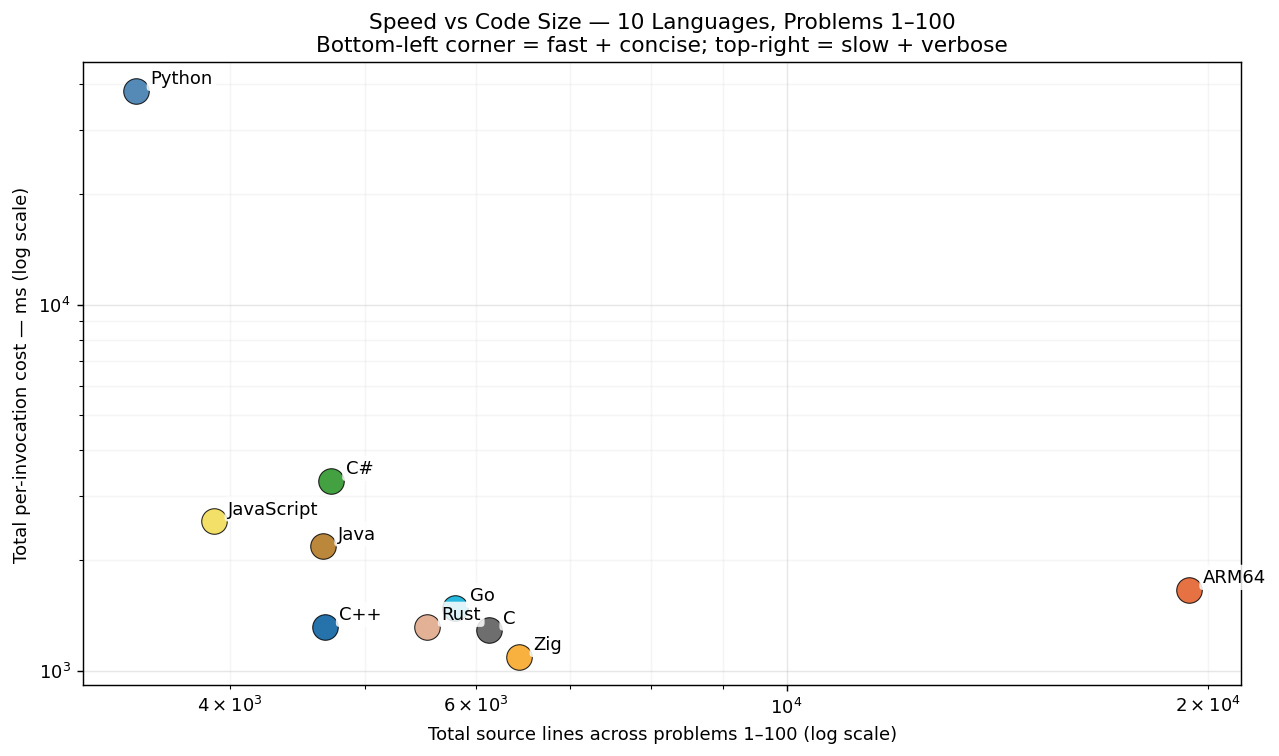
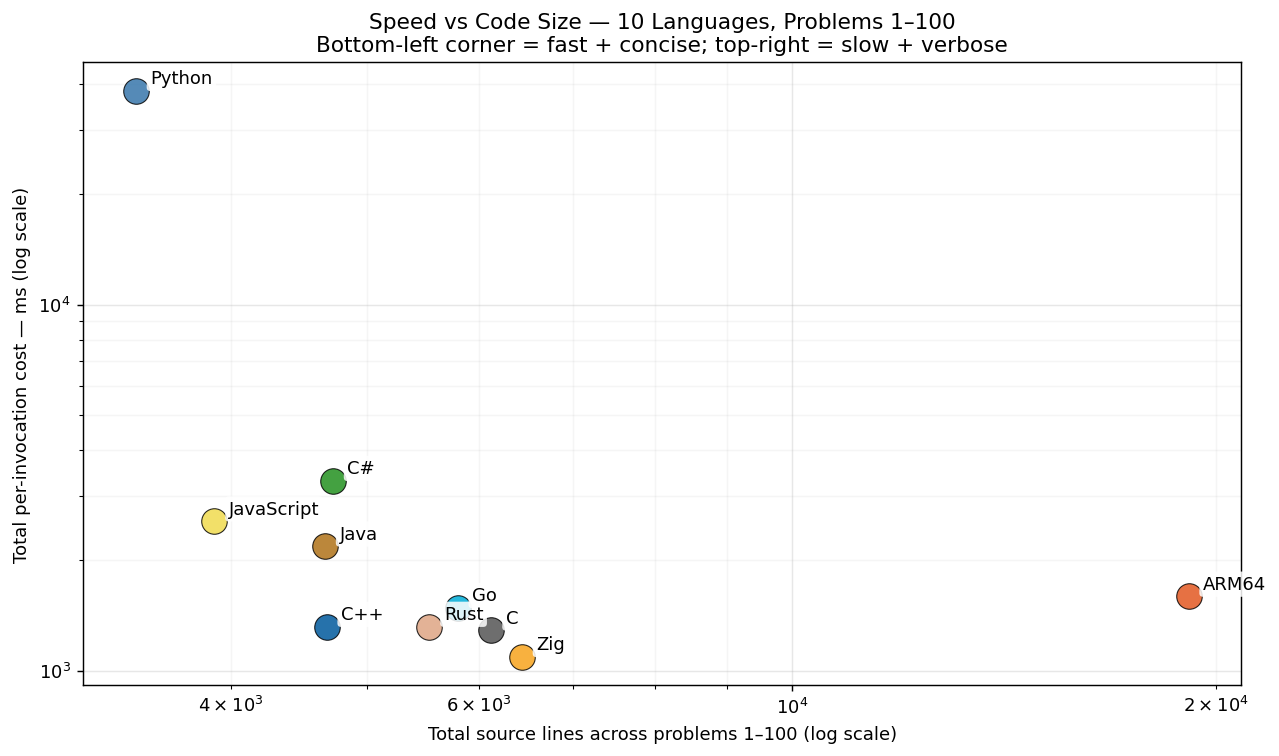
bench refresh post ARM64 p066 CF Pell (63.9ms → 117µs; aggregate 1.74s → 1.60s)

diff --git a/RESULTS.md b/RESULTS.md
@@ -23,7 +23,7 @@ the headline per-problem number, and we sum across the 100 problems for the tota
 | 3 | **C++** | 1.32 s | 4,679 | 1.21× |
 | 4 | **Rust** | 1.32 s | 5,534 | 1.21× |
 | 5 | **Go** | 1.48 s | 5,796 | 1.36× |
-| 6 | **ARM64** | 1.66 s | 19,379 | 1.53× |
+| 6 | **ARM64** | 1.60 s | 19,112 | 1.46× |
 | 7 | **Java** | 2.19 s | 4,667 | 2.00× |
 | 8 | **JavaScript** | 2.56 s | 3,896 | 2.35× |
 | 9 | **C#** | 3.30 s | 4,728 | 3.03× |
@@ -102,7 +102,7 @@ fixed tier order (native → managed → interpreted).
 | **p022** | 1.33 ms | 1.58 ms | 1.28 ms | 711.1 µs | 1.03 ms | 728.2 µs | 23.76 ms | 14.19 ms | 1.53 ms | 3.72 ms |
 | **p023** | 11.22 ms | 8.58 ms | 29.33 ms | 92.96 ms | 8.56 ms | 10.14 ms | 8.49 ms | 14.66 ms | 16.19 ms | 578.16 ms |
 | **p024** | 0 ns | 167 ns | 625 ns | 708 ns | 292 ns | 1.9 µs | 416.85 ms | 4.7 µs | 37.3 µs | 10.2 µs |
-| **p025** | 7.45 ms | 6.46 ms | 5.88 ms | 7.09 ms | 6.85 ms | 122.9 µs | 4.58 ms | 84.61 ms | 486.8 µs | 22.43 ms |
+| **p025** | 858.0 µs | 6.46 ms | 5.88 ms | 7.09 ms | 6.85 ms | 122.9 µs | 4.58 ms | 84.61 ms | 486.8 µs | 22.43 ms |
 | **p026** | 1.04 ms | 612.9 µs | 733.4 µs | 5.66 ms | 652.8 µs | 1.57 ms | 1.91 ms | 1.91 ms | 1.26 ms | 7.59 ms |
 | **p027** | 8.46 ms | 7.44 ms | 9.73 ms | 7.85 ms | 6.08 ms | 6.02 ms | 118.17 ms | 14.54 ms | 13.49 ms | 406.94 ms |
 | **p028** | 1.0 µs | 42 ns | 83 ns | 875 ns | 41 ns | 1.9 µs | 3.29 ms | 14.1 µs | 24.8 µs | 34.9 µs |
@@ -143,7 +143,7 @@ fixed tier order (native → managed → interpreted).
 | **p063** | 3.0 µs | 2.7 µs | 5.5 µs | 4.2 µs | 2.2 µs | 16.3 µs | 70.6 µs | 948.5 µs | 37.6 µs | 13.5 µs |
 | **p064** | 3.07 ms | 2.60 ms | 2.01 ms | 2.05 ms | 2.33 ms | 2.20 ms | 2.50 ms | 3.22 ms | 3.11 ms | 25.06 ms |
 | **p065** | 30.0 µs | 37.9 µs | 9.1 µs | 28.8 µs | 31.8 µs | 13.5 µs | 9.70 ms | 897.6 µs | 69.5 µs | 24.1 µs |
-| **p066** | 63.41 ms | 54.61 ms | 783.6 µs | 56.50 ms | 55.36 ms | 2.47 ms | 5.97 ms | 8.22 ms | 1.82 ms | 2.28 ms |
+| **p066** | 165.0 µs | 54.61 ms | 783.6 µs | 56.50 ms | 55.36 ms | 2.47 ms | 5.97 ms | 8.22 ms | 1.82 ms | 2.28 ms |
 | **p067** | 35.0 µs | 174.2 µs | 649.7 µs | 86.5 µs | 116.0 µs | 267.8 µs | 14.68 ms | 13.71 ms | 1.00 ms | 1.04 ms |
 | **p068** | 15.64 ms | 10.54 ms | 10.09 ms | 11.47 ms | 11.21 ms | 19.31 ms | 71.42 ms | 78.20 ms | 43.15 ms | 948.39 ms |
 | **p069** | 0 ns | 41 ns | 42 ns | 42 ns | 41 ns | 1.5 µs | 182.5 µs | 2.8 µs | 14.9 µs | 1.6 µs |
